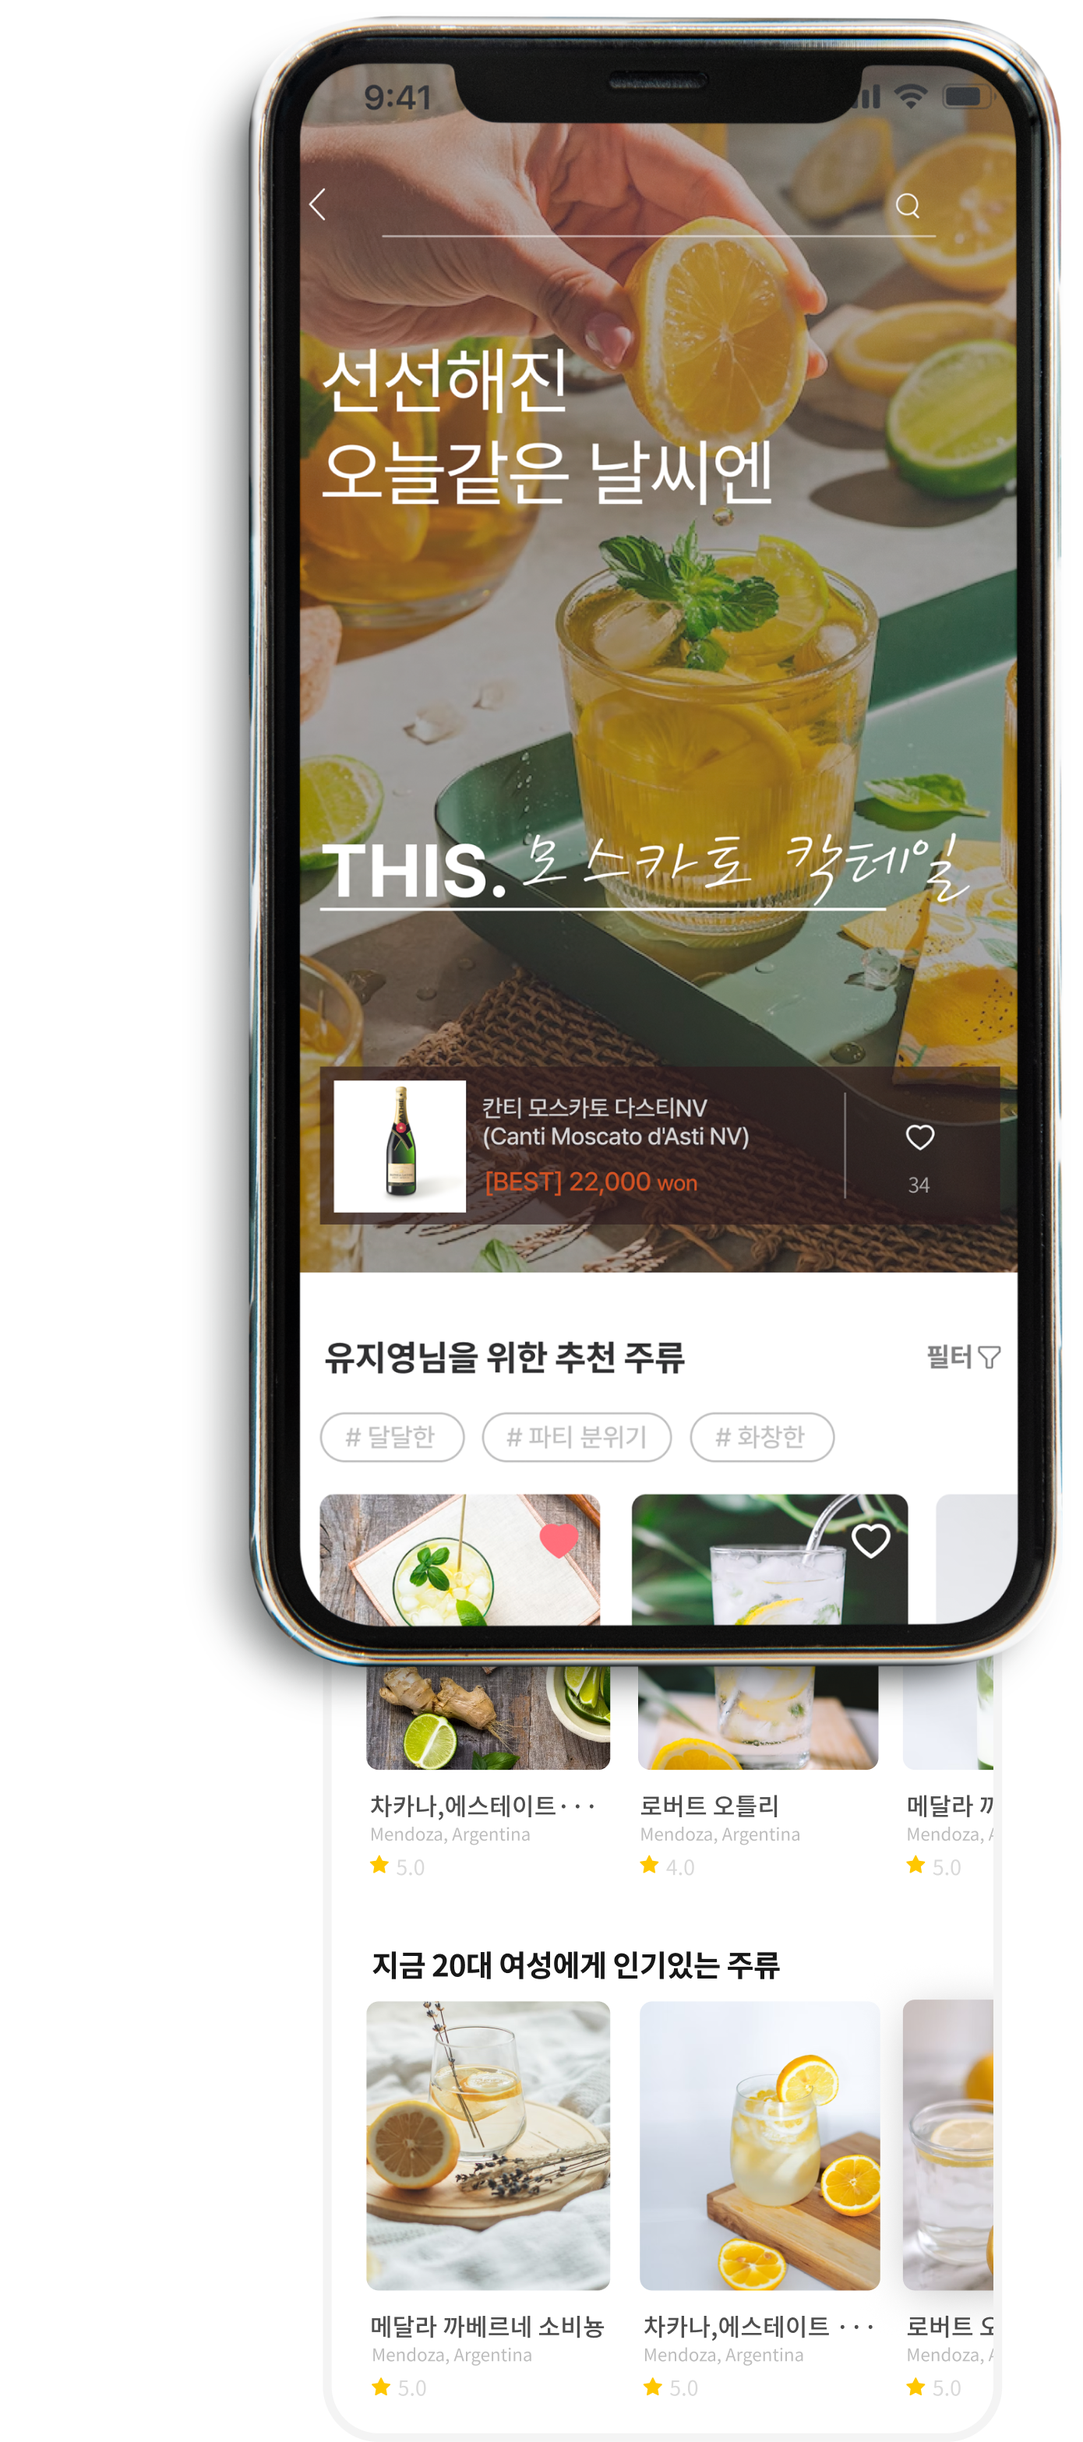
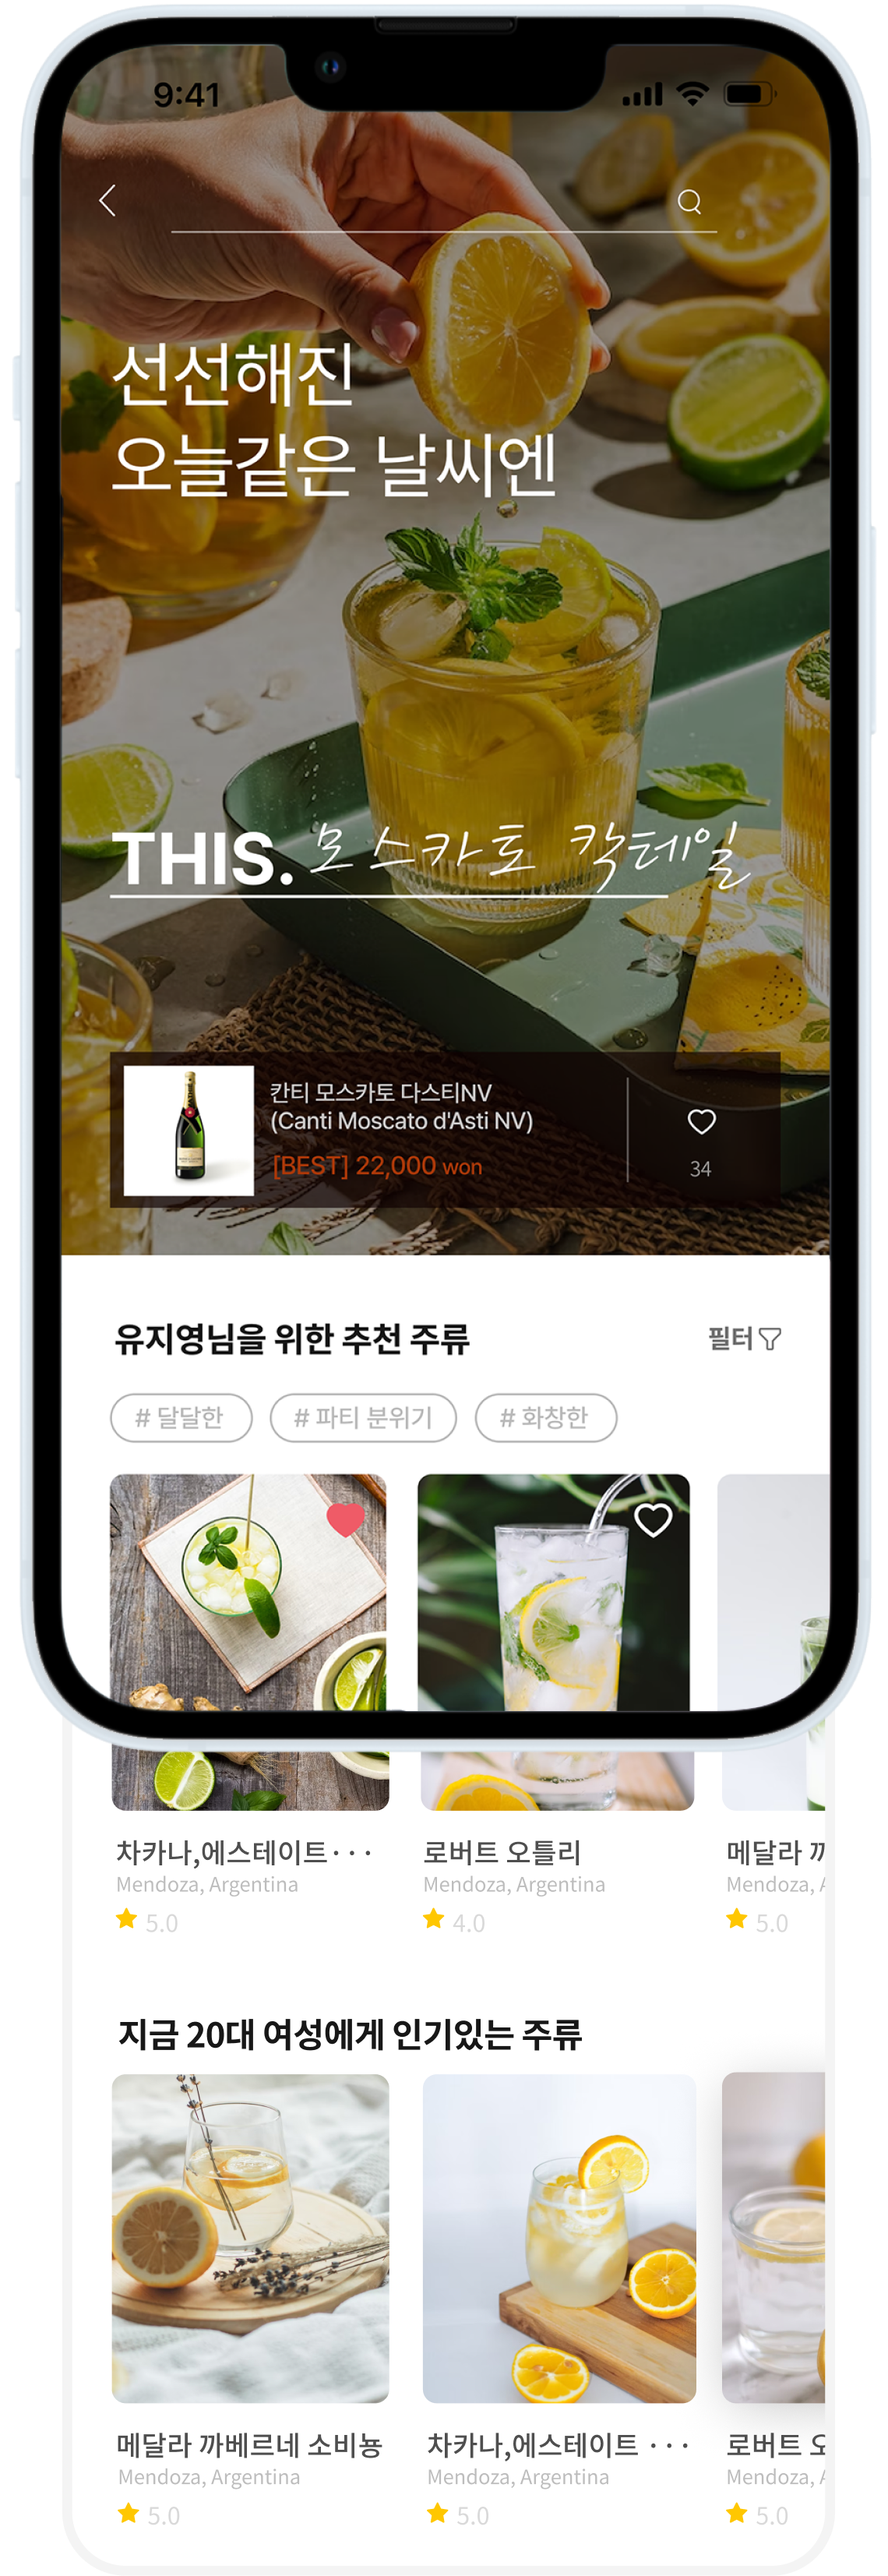
.
.

diff --git a/css/common.css b/css/common.css
@@ -424,8 +424,8 @@ section .subTitle { position: relative; text-align: center; font-size: calc( 100
 .section19 article .sec19_txt h3 { color: #FF542F; font-size: calc( 100vw * 50 / 1920 ); font-family: PLight; line-height: 130%; }
 .section19 article .sec19_txt h3 span { margin: 0 auto; margin-bottom: calc( 100vw * 20 / 1920 ); font-family: PBold;}
 .section19 article .sec19_txt p { margin: calc( 100vw * 60 / 1920 ) calc( 100vw * 40 / 1920 ) 0 0; line-height: 140%; }
-.section19 article .sec19_mockup { background: url(../source/sec19_bg.png) no-repeat center center; background-size: cover; padding-bottom: calc( 100vw * 800 / 1920 );}
-.section19 article .sec19_mockup img { width: calc( 100vw * 630 / 1920 ); margin-top: calc( 100vw * -200 / 1920 ); }
+.section19 article .sec19_mockup { background: url(../source/sec19_bg.png) no-repeat center center; background-size: 100vw; padding-bottom: calc( 100vw * 800 / 1920 );}
+.section19 article .sec19_mockup img { width: calc( 100vw * 560 / 1920 ); margin: calc( 100vw * -200 / 1920 ) calc( 100vw * 20 / 1920 ) 0 0; filter: drop-shadow(-8px -3px 10px rgba(28, 0, 0, 0.25)) drop-shadow(-15px -3px 29px rgba(0, 0, 0, 0.23));}
 
 /* ----------------------------------------------------------------------------- */
 .section20 { margin-top: calc( 100vw * 800 / 1920 ); background: url(../source/sec20_bg.png) no-repeat center center fixed; background-size: cover; }
